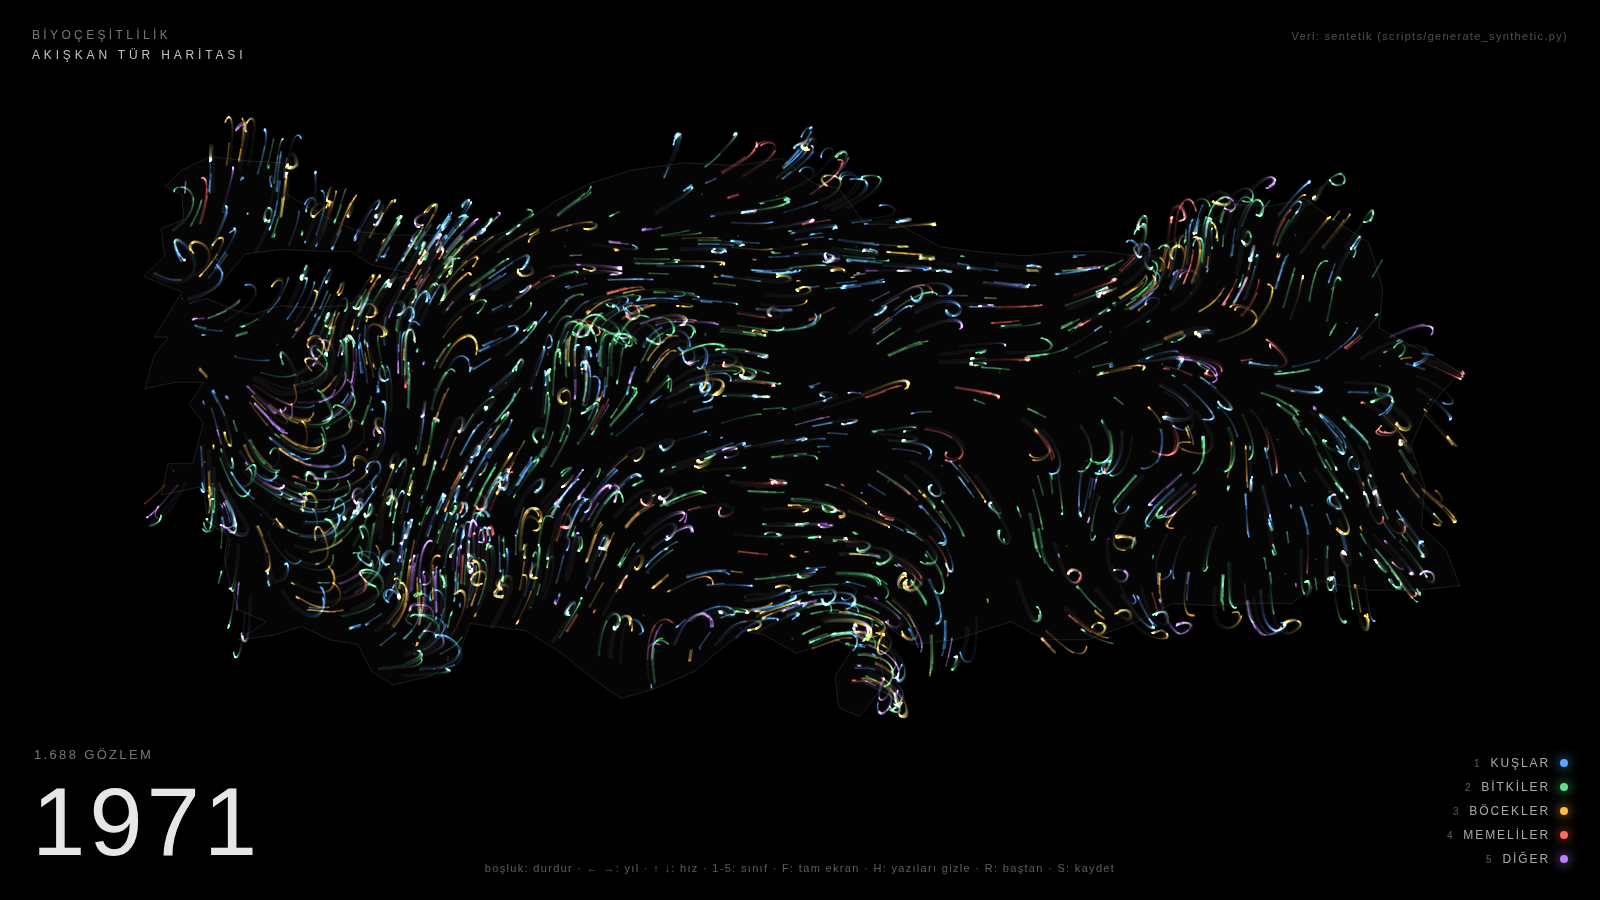
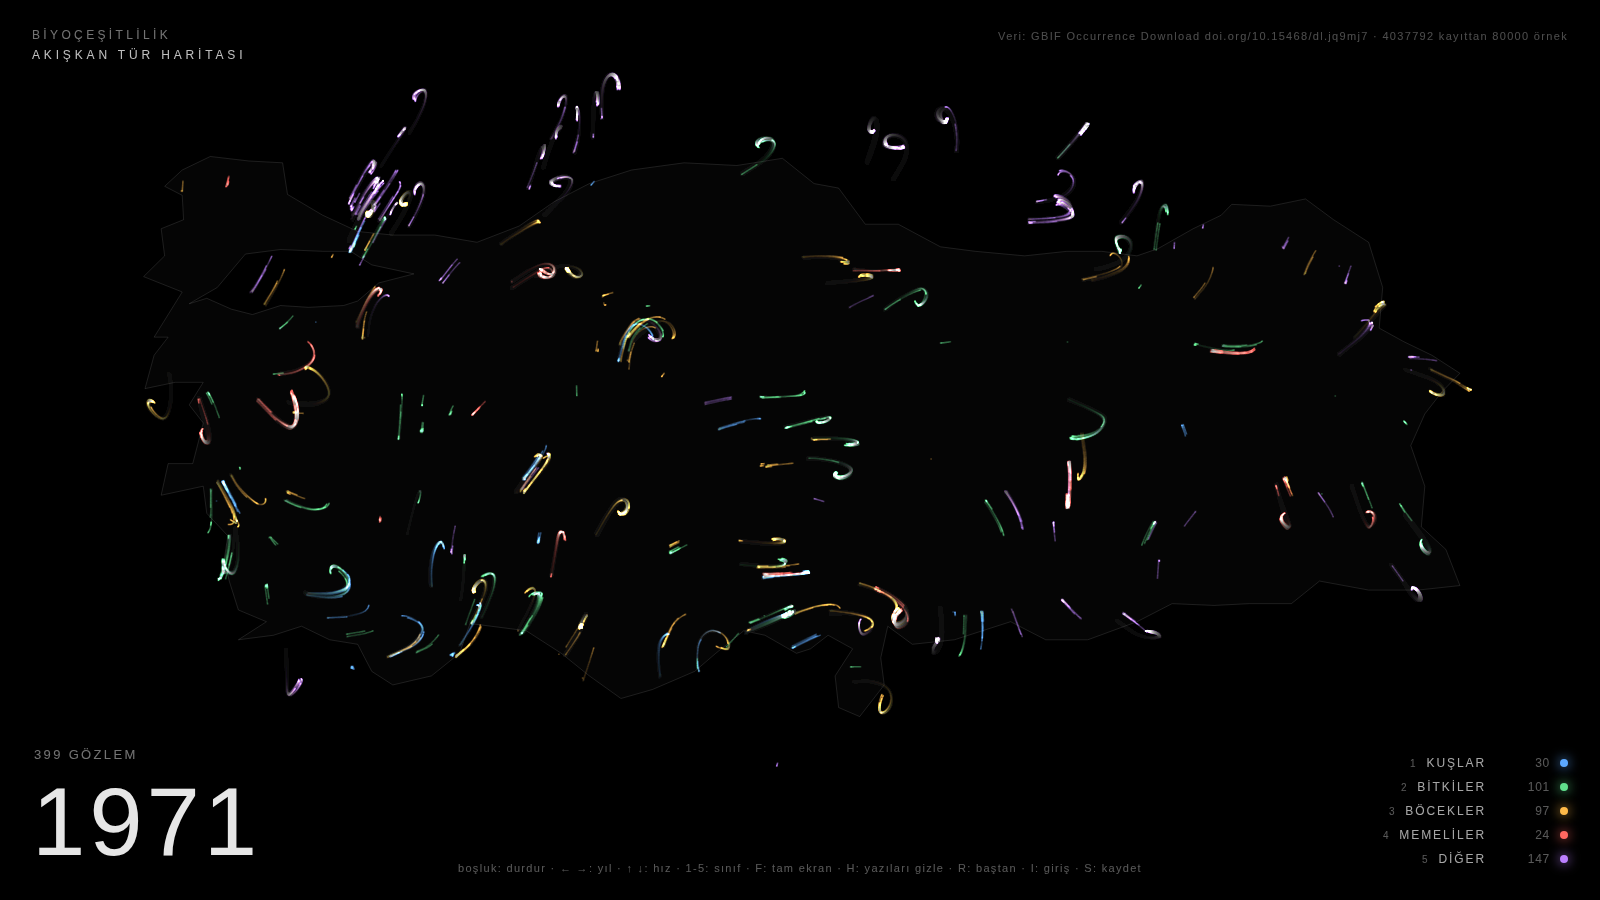
Gerçek GBIF verisine göre ayarlar: sınıf dengesi, büyüme eğrisi, lejant sayıları
Kayıtların %87'si kuş olduğu için doğumda sınıf seçimi gerçek oran ile eşit
dağılımın karışımı yapıldı (classBalance); her parçacık yine gerçek bir
gözlem, lejant her sınıfın gerçek kümülatif sayısını gösterir. Parçacık
sayısı gözlem payının karekökü ile büyür ki erken yıllar görünür kalsın.
Aynı koordinatta yığılan kayıtlar için doğum sapması artırıldı.
Önizlemeler gerçek veriyle yenilendi, README güncellendi.

Claude-Session: https://claude.ai/code/session_01NWLFDSPJVWPhZJrHPJMooR

diff --git a/sketch.js b/sketch.js
@@ -13,7 +13,8 @@
 const CONFIG = {
   seed: 1,               // aynı tohum aynı akışı üretir
   particles: 24000,      // parçacık havuzu (sabit bellek)
-  particlesPerObs: 2.5,  // o ana kadarki gözlem sayısına göre canlı parçacık hedefi
+  growthExponent: 0.5,   // canlı parçacık = particles * (gözlem payı)^üs; 1 doğrusal, 0.5 erken yılları görünür kılar
+  classBalance: 0.7,     // 0: sınıflar gerçek oranında (kuş ağırlıklı), 1: eşit; arası karışım
   birthsPerFrame: 300,   // kare başına en fazla doğum (yumuşak büyüme)
   cell: 18,              // akış alanı hücre boyutu (px)
   noiseScale: 0.0021,    // akış alanının uzamsal ölçeği (küçük = geniş girdaplar)
@@ -77,6 +78,8 @@ let DATA, N, yearMin, yearMax, classes;
 let oLon, oLat, oYear, oCls;      // ham gözlemler
 let oX, oY;                       // ekran koordinatları (yeniden boyutlanınca güncellenir)
 let yearStart;                    // yearStart[y - yearMin] = o yıldan itibaren ilk indeks
+let clsIdx = [];                  // clsIdx[c] = o sınıfın gözlem indeksleri (yıla göre sıralı)
+let clsYearStart = [];            // clsYearStart[c][y - yearMin] = clsIdx[c] içinde ilk konum
 const enabled = [true, true, true, true, true];
 
 // ---- Parçacıklar ------------------------------------------------------------
@@ -193,6 +196,29 @@ function loadData() {
     while (idx < N && oYear[idx] < y) idx++;
     yearStart[y - yearMin] = idx;
   }
+
+  // sınıf başına aynı tablo: dengeli doğum için
+  const C = PALETTE.length;
+  clsIdx = []; clsYearStart = [];
+  for (let c = 0; c < C; c++) {
+    const list = [];
+    for (let i = 0; i < N; i++) if (oCls[i] === c) list.push(i);
+    const arr = Int32Array.from(list);
+    const ys = new Int32Array(span);
+    let k = 0;
+    for (let y = yearMin; y <= yearMax + 1; y++) {
+      while (k < arr.length && oYear[arr[k]] < y) k++;
+      ys[y - yearMin] = k;
+    }
+    clsIdx.push(arr); clsYearStart.push(ys);
+  }
+}
+
+// sınıf c için, y yılından itibaren clsIdx[c] içindeki ilk konum
+function clsIdxAtYear(c, y) {
+  if (y <= yearMin) return 0;
+  if (y > yearMax) return clsIdx[c].length;
+  return clsYearStart[c][y - yearMin];
 }
 
 // o yıldan (dahil) itibaren ilk indeks; yılı sınırlar içine kırpar
@@ -247,26 +273,42 @@ function initParticles() {
 }
 
 // Ölü bir parçacığı, aktif yılın gözlemlerinden birinde doğurur.
+// Önce sınıf seçilir (gerçek oran ile eşit dağılımın karışımı), sonra o sınıfın
+// pencere içindeki gerçek bir gözlemi. Her parçacık gerçek bir kayıttır; denge
+// yalnızca hangi sınıfın ne sıklıkla doğduğunu etkiler.
+const clsWeight = new Float64Array(PALETTE.length);
 function spawn(i) {
   const cy = Math.floor(currentYear);
   const end = idxAtYear(cy + 1);
   if (end === 0) return false;
-  let start = 0;
-  if (rng() < CONFIG.recentBias) start = idxAtYear(cy - CONFIG.recentWindow + 1);
-  if (start >= end) start = 0;
-  for (let t = 0; t < 4; t++) {
-    const j = start + Math.floor(rng() * (end - start));
-    const c = oCls[j];
-    if (!enabled[c]) continue;
-    const jit = 2.5;
-    px[i] = oX[j] + (rng() - 0.5) * jit; py[i] = oY[j] + (rng() - 0.5) * jit;
-    phx[i] = px[i]; phy[i] = py[i];
-    pvx[i] = 0; pvy[i] = 0;
-    plife[i] = CONFIG.lifeMin + Math.floor(rng() * (CONFIG.lifeMax - CONFIG.lifeMin));
-    pcls[i] = c; palive[i] = 1;
-    return true;
+  const recent = rng() < CONFIG.recentBias;
+  const yFrom = recent ? cy - CONFIG.recentWindow + 1 : yearMin;
+
+  // sınıf ağırlıkları: pencere içindeki gerçek sayı ile eşit payın karışımı
+  let total = 0;
+  for (let c = 0; c < PALETTE.length; c++) {
+    let n = clsIdxAtYear(c, cy + 1) - clsIdxAtYear(c, yFrom);
+    if (n <= 0 && recent) n = clsIdxAtYear(c, cy + 1);   // pencere boşsa tüm geçmiş
+    const share = n / Math.max(1, end);
+    clsWeight[c] = (!enabled[c] || n <= 0) ? 0
+      : (1 - CONFIG.classBalance) * share + CONFIG.classBalance * (1 / PALETTE.length);
+    total += clsWeight[c];
   }
-  return false;
+  if (total <= 0) return false;
+  let r = rng() * total, c = 0;
+  for (; c < PALETTE.length - 1; c++) { r -= clsWeight[c]; if (r <= 0) break; }
+
+  let a = clsIdxAtYear(c, yFrom), b = clsIdxAtYear(c, cy + 1);
+  if (b - a <= 0) { a = 0; }
+  if (b - a <= 0) return false;
+  const j = clsIdx[c][a + Math.floor(rng() * (b - a))];
+  const jit = 4;   // aynı koordinatta yığılan kayıtları (popüler gözlem noktaları) hafifçe dağıt
+  px[i] = oX[j] + (rng() - 0.5) * jit; py[i] = oY[j] + (rng() - 0.5) * jit;
+  phx[i] = px[i]; phy[i] = py[i];
+  pvx[i] = 0; pvy[i] = 0;
+  plife[i] = CONFIG.lifeMin + Math.floor(rng() * (CONFIG.lifeMax - CONFIG.lifeMin));
+  pcls[i] = c; palive[i] = 1;
+  return true;
 }
 
 // =============================================================================
@@ -289,7 +331,8 @@ function draw() {
   // 3) Doğumlar: canlı sayısı, o ana kadarki gözlem sayısıyla orantılı
   if (resetting === 0 && !introActive) {
     const cum = idxAtYear(Math.floor(currentYear) + 1);
-    const target = Math.min(CONFIG.particles, Math.ceil(cum * CONFIG.particlesPerObs));
+    const target = Math.min(CONFIG.particles,
+      Math.ceil(CONFIG.particles * Math.pow(cum / N, CONFIG.growthExponent)));
     let births = 0;
     for (let i = 0; i < CONFIG.particles && aliveCount < target && births < CONFIG.birthsPerFrame; i++) {
       if (!palive[i] && spawn(i)) { aliveCount++; births++; }
@@ -424,7 +467,7 @@ function buildUi() {
     const el = document.createElement('div');
     el.className = 'chip';
     const [R, G, B] = PALETTE[k];
-    el.innerHTML = `<small>${k + 1}</small><span>${name}</span><i style="color:rgb(${R},${G},${B});background:rgb(${R},${G},${B})"></i>`;
+    el.innerHTML = `<small>${k + 1}</small><span>${name}</span><em></em><i style="color:rgb(${R},${G},${B});background:rgb(${R},${G},${B})"></i>`;
     ui.legend.appendChild(el);
     return el;
   });
@@ -437,7 +480,14 @@ function updateUi() {
   const y = Math.min(yearMax, Math.floor(currentYear));
   if (y !== ui.lastYear) { ui.year.textContent = y; ui.lastYear = y; }
   const cum = idxAtYear(y + 1);
-  if (cum !== ui.lastCount) { ui.count.textContent = fmt.format(cum) + ' gözlem'; ui.lastCount = cum; }
+  if (cum !== ui.lastCount) {
+    ui.count.textContent = fmt.format(cum) + ' gözlem';
+    ui.lastCount = cum;
+    // lejantta her sınıfın o ana kadarki gerçek sayısı
+    for (let c = 0; c < ui.chips.length; c++) {
+      ui.chips[c].querySelector('em').textContent = fmt.format(clsIdxAtYear(c, y + 1));
+    }
+  }
   if (showFps && frameCount % 15 === 0) {
     ui.fps.textContent = `${frameRate().toFixed(0)} fps · ${fmt.format(aliveCount)} parçacık`;
   }

diff --git a/index.html b/index.html
@@ -33,6 +33,8 @@
     .chip i { width: 8px; height: 8px; border-radius: 50%; display: inline-block;
       box-shadow: 0 0 12px currentColor; }
     .chip small { color: rgba(255,255,255,0.35); letter-spacing: 0.08em; }
+    .chip em { font-style: normal; color: rgba(255,255,255,0.35); letter-spacing: 0.06em;
+      font-variant-numeric: tabular-nums; min-width: 4.5em; text-align: right; }
     #source { position: absolute; right: 32px; top: 30px; font-size: 11px; letter-spacing: 0.12em;
       color: rgba(255,255,255,0.3); text-align: right; max-width: 40vw; }
     #hint { position: absolute; left: 50%; bottom: 26px; transform: translateX(-50%);

diff --git a/README.md b/README.md
@@ -9,9 +9,9 @@ akış alanı tarafından sürüklenir, iz bırakır, söner ve o yılın başka
 gözleminde yeniden doğar. Renk taksonomik sınıfı, parlaklık yoğunluğu anlatır.
 Zaman 1950'den bugüne yıl yıl akar.
 
-| 1971 | 2024 |
+| 1971 | 2026 |
 |------|------|
-| ![1971](docs/onizleme-1971.png) | ![2024](docs/onizleme-2024.png) |
+| ![1971](docs/onizleme-1971.png) | ![2026](docs/onizleme-2026.png) |
 
 ## Giriş ekranı
 
@@ -28,7 +28,7 @@ ayarlanır (0 kapatır), `introEachLoop: 0` girişi yalnızca açılışta göst
 ## Hızlı başlangıç
 
 Sunucuya gerek yok. `index.html` dosyasına çift tıklayın, tarayıcıda açılır.
-Şu an depoda sentetik (üretilmiş) veri var; gerçek veriyi bağlamak için aşağıya bakın.
+Depodaki veri gerçek: GBIF'ten 4.037.792 Türkiye kaydından örneklenmiş 80.000 gözlem, 1950-2026.
 
 Sergi günü için: tarayıcıda **F** ile tam ekran yapın, **H** ile yazıları gizleyin.
 Sayfa internet gerektirmez; p5.js `lib/` klasöründe yerel olarak durur.
@@ -120,6 +120,9 @@ Sık ayarlanacaklar:
 - `secondsPerYear`: bir yılın kaç saniye sürdüğü. 2.0 ile tam döngü yaklaşık 2.5 dakika.
 - `fade`: iz uzunluğu. Küçük değer uzun, boyalı iz; büyük değer kısa, net iz.
 - `alpha`, `alphaRefAlive`: parlaklık ve beyaza doyma dengesi.
+- `classBalance`: 0 ile sınıflar gerçek oranında doğar (kayıtların %87'si kuş, harita mavi olur),
+  1 ile eşit. Varsayılan 0.7. Her parçacık yine gerçek bir kayıttır; lejant gerçek sayıları gösterir.
+- `growthExponent`: parçacık sayısının gözlem sayısıyla büyüme eğrisi. 0.5 erken yılları görünür kılar.
 - `noiseScale`, `flowForce`, `homePull`: akışın karakteri. `homePull` sıfıra yaklaşınca harita dağılır.
 - `seed`: aynı tohum aynı akışı üretir; beğendiğiniz görüntüyü yeniden bulabilirsiniz.
 
@@ -154,7 +157,7 @@ Jüri karşısında bu ayrımı yapabilmek, işin bilimsel değerini gösterir.
 
 ## Yol haritası
 
-- [ ] Gerçek GBIF verisi (`fetch_gbif_api.py` hazır, takım bilgisayarında çalıştırılacak)
+- [x] Gerçek GBIF verisi
 - [ ] Ses katmanı: o yılın kuş sesleri (Xeno-canto)
 - [ ] Web kamera ile izleyici hareketine tepki
 - [ ] FTC robotunun sensör verisinden canlı katman
